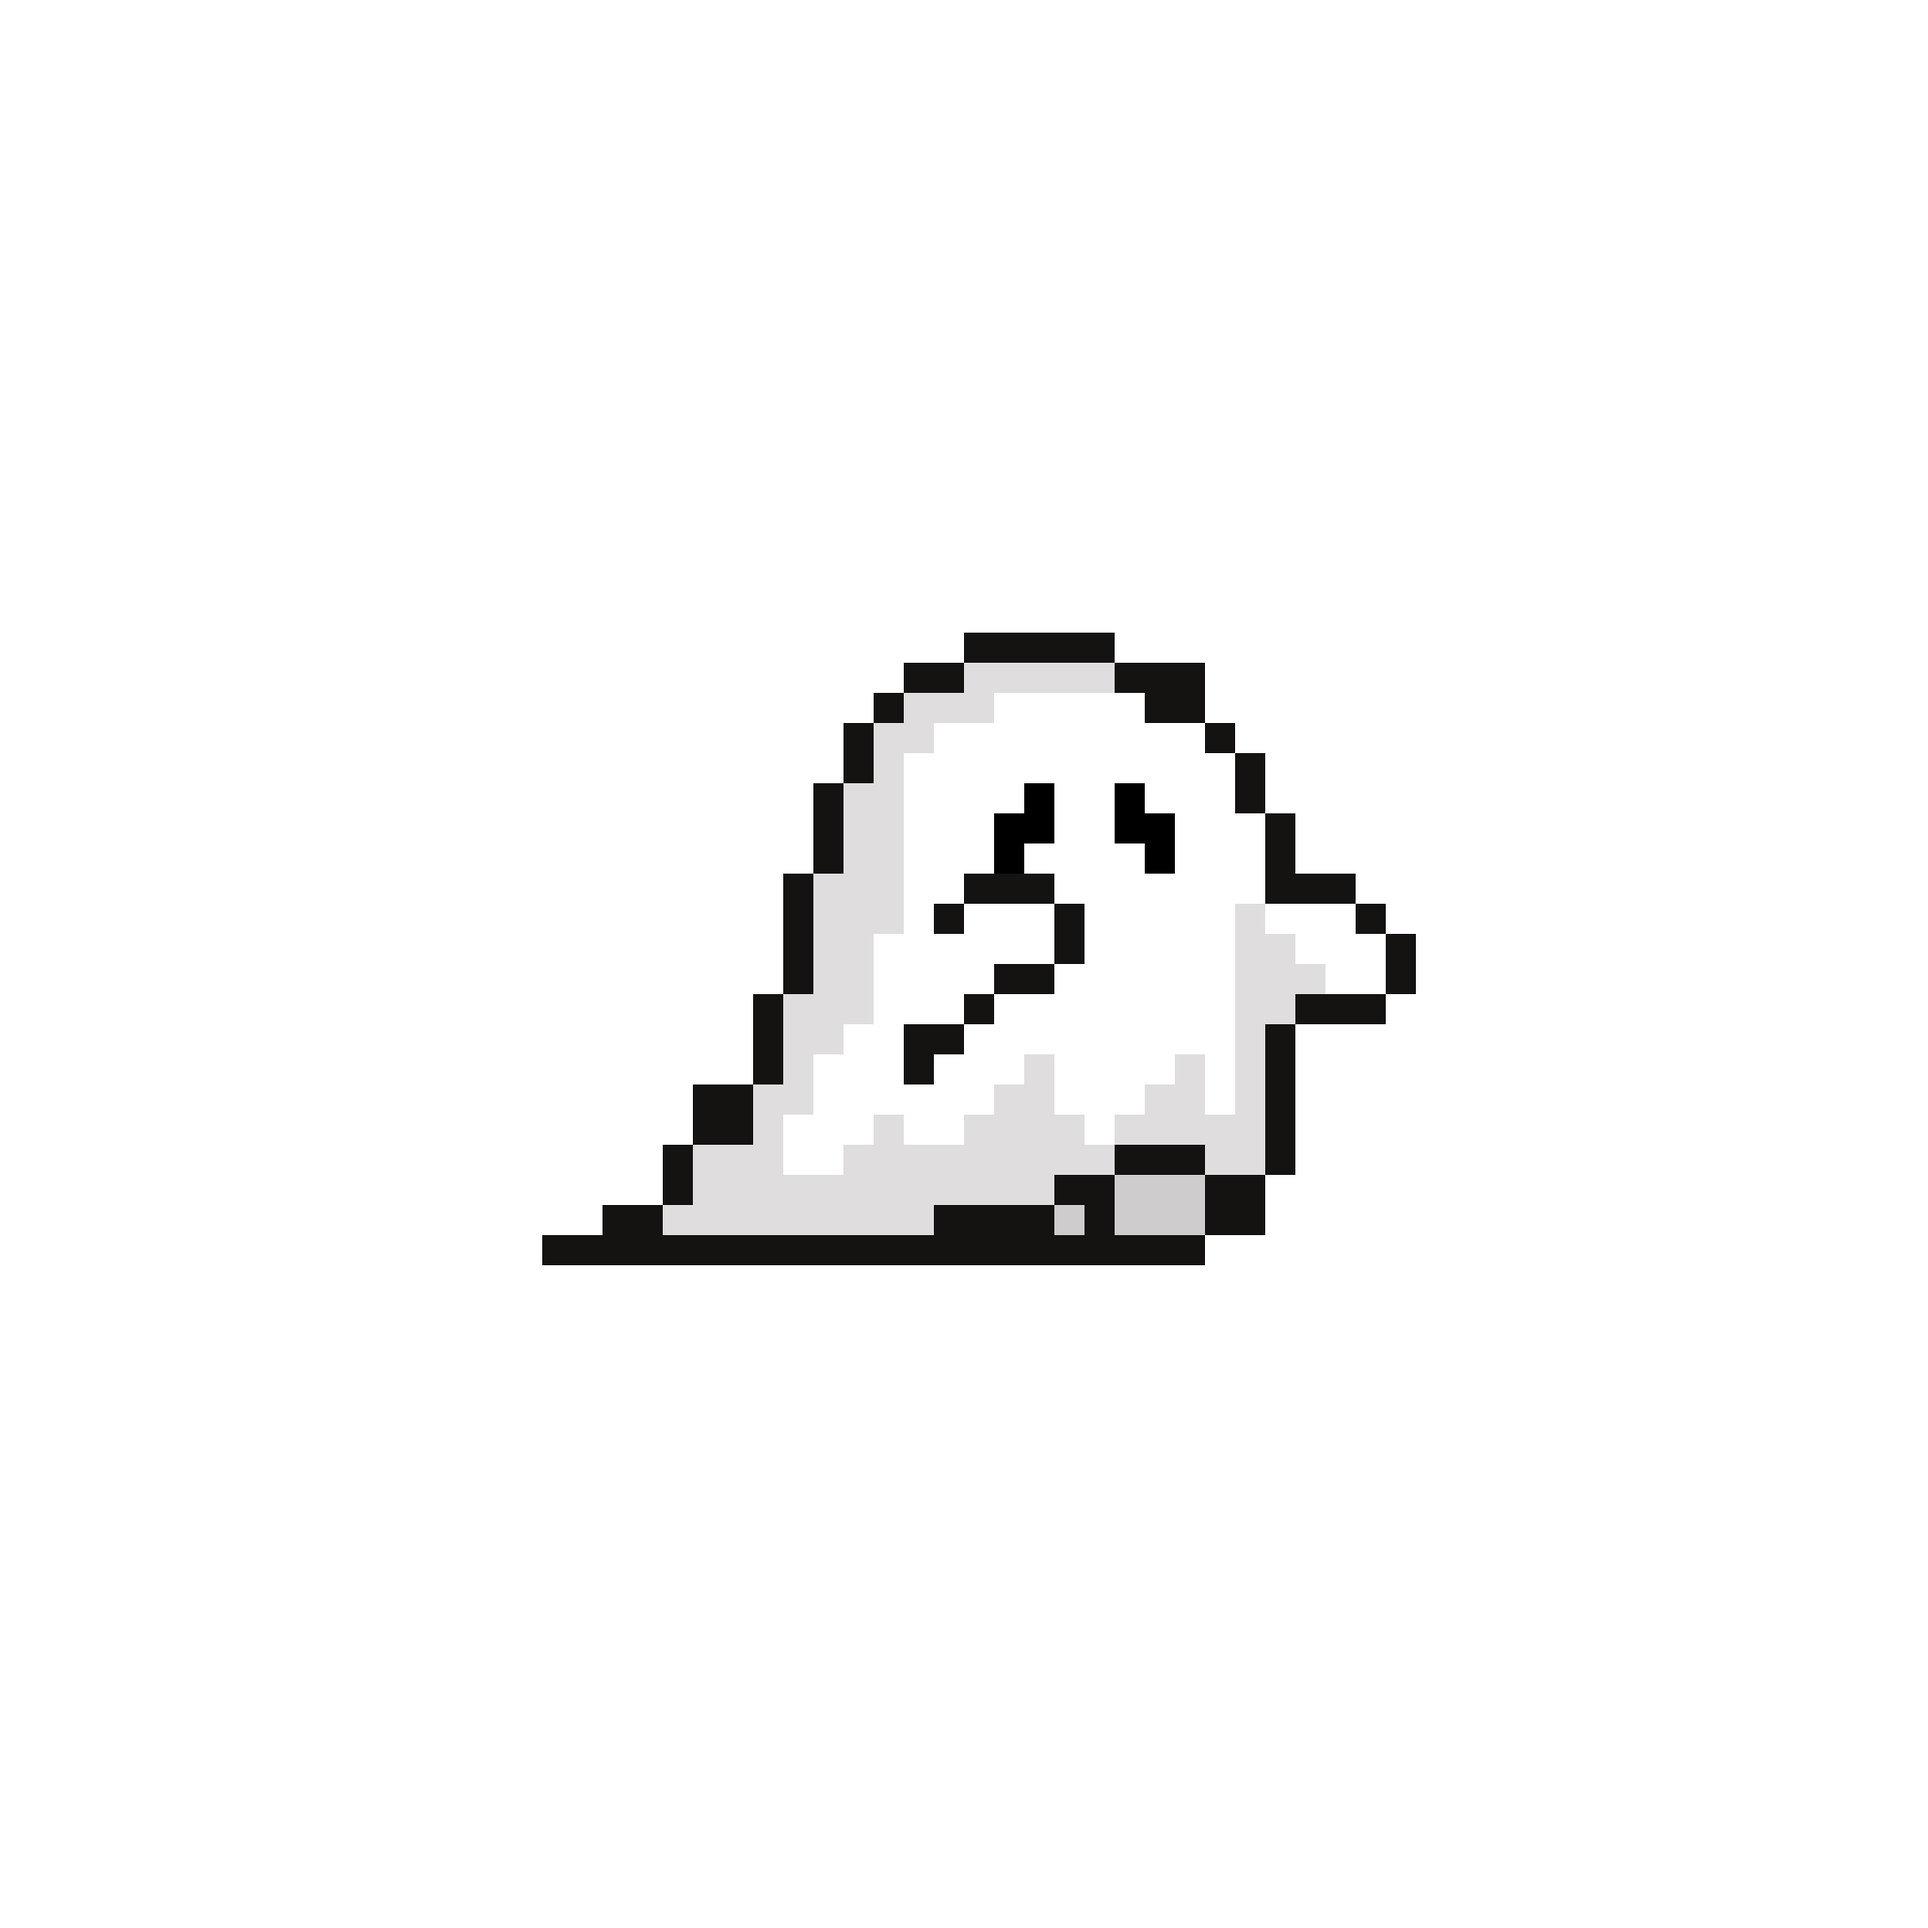
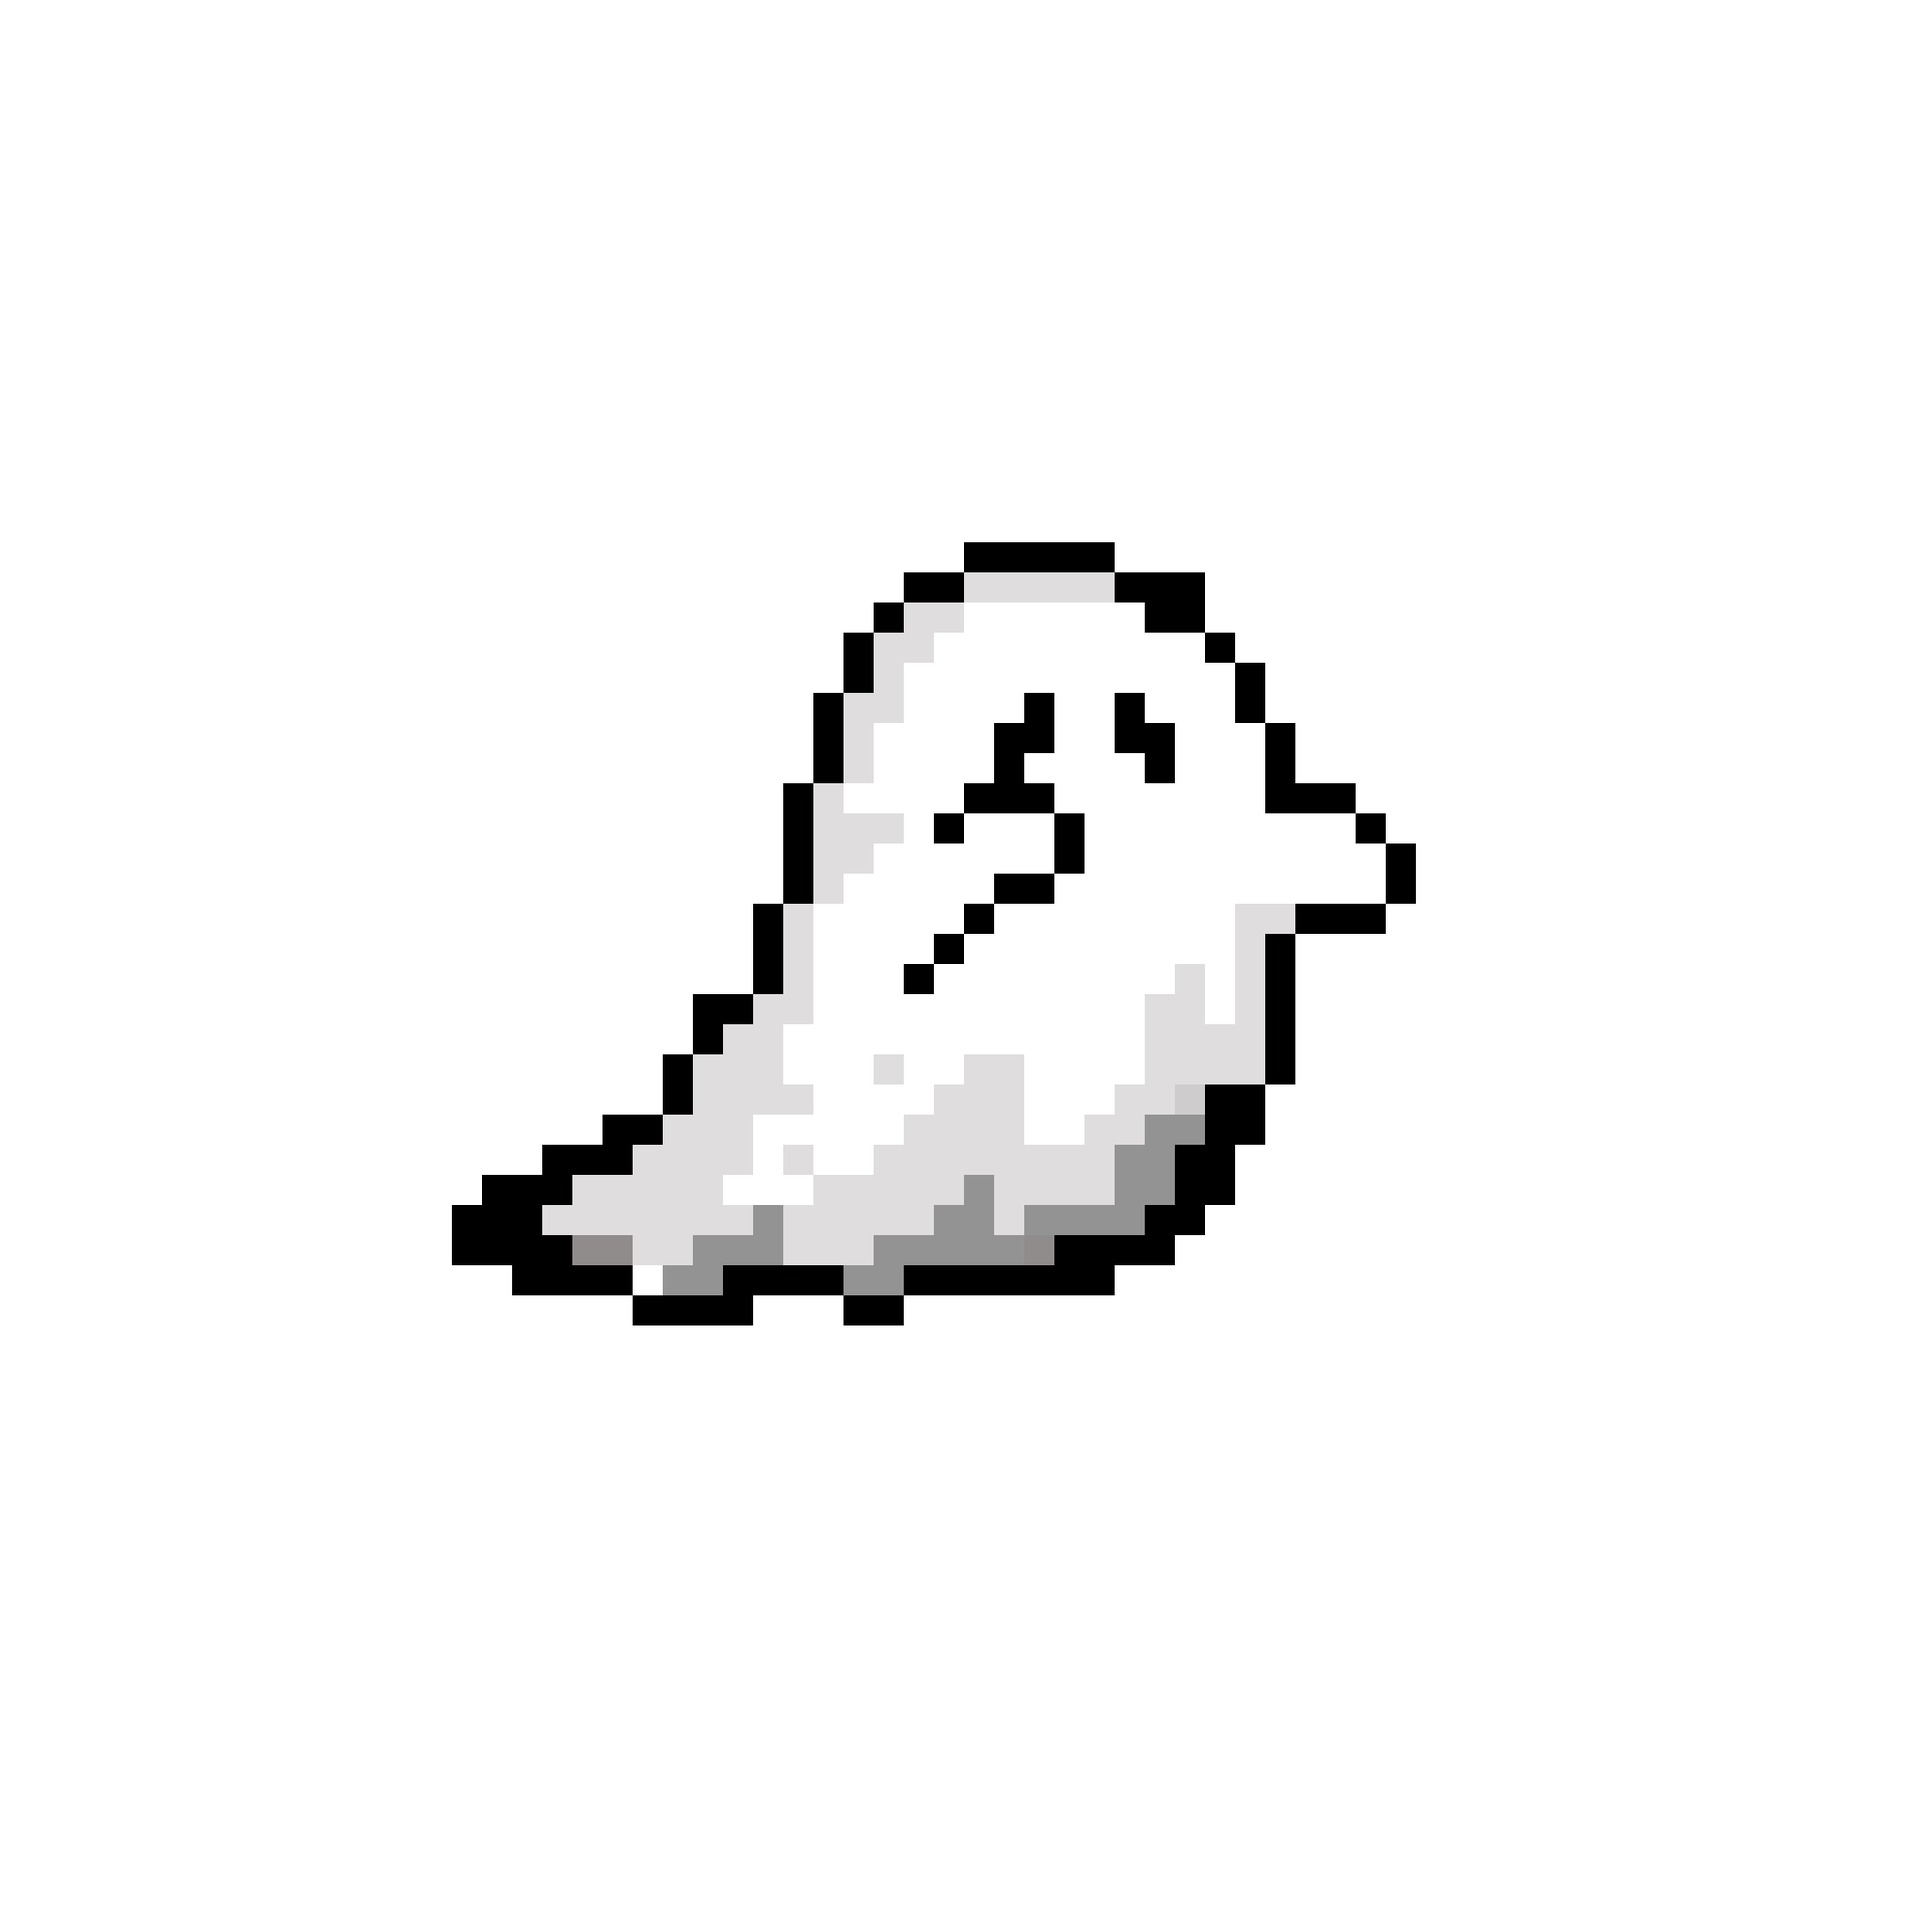
fixed the white space at the top and bottom

Changed region(s): [[0.2188, 0.2812, 0.75, 0.6875]]

diff --git a/src/clovers/Clovers.java b/src/clovers/Clovers.java
@@ -29,28 +29,48 @@ import javafx.stage.Stage;
  * @author DELL
  */
 public class Clovers extends Application {
-private double screenWidth = 1000; // Width of visible area
-    private double screenHeight = 600; // Height of visible area
+
+    private double screenWidth = 1000; // Width of visible area
+    private double screenHeight = 800; // Height of visible area
     private double bgWidth = 1746;     // Width of kitchen background
     private double bgHeight = 1166;    // Height of kitchen background
     private double ghostStep = 10;     // Step size for ghost movement
-    private double offsetY = 80;  
+//    private double offsetY = 80;
+
     @Override
     public void start(Stage primaryStage) {
         System.out.println("testing");
         // ImageView ghost = new ImageView(getClass().getResource("ghost.png").toExternalForm());
-        Image ghostOg = new Image("file:///C://Users//DELL//Desktop//SE220//Game//clovers//src//clovers//ghost.png/");
+        Image ghostOg = new Image("file:///C://Users//DELL//Desktop//SE220//Game//clovers//src//clovers//left1.png/");
+
         Image lifeImg = new Image("file:///C:/Users/DELL/Desktop/SE220/Game/clovers/src/clovers/lives.png");
         Image menuImg = new Image("file:///C:/Users/DELL/Desktop/SE220/Game/clovers/src/clovers/menu.png");
         Image timerImg = new Image("file:///C://Users//DELL//Desktop//SE220//Game//clovers//src//clovers//timer.png/");
-        ImageView menuView = new ImageView(menuImg);
+        //  ImageView ghost = new ImageView(new Image("file:///C://Users//DELL//Desktop//SE220//Game//clovers//src//clovers//ghost.png/"));
+        
+        Image ghostRight = new Image("file:///C://Users//DELL//Desktop//SE220//Game//clovers//src//clovers//right1.png/");
+        Image ghostUp = new Image("file:///C://Users//DELL//Desktop//SE220//Game//clovers//src//clovers//up1.png/");
+        Image ghostDown = new Image("file:///C://Users//DELL//Desktop//SE220//Game//clovers//src//clovers//down2.png/");
+        ImageView imageView = new ImageView(new Image("file:///C://Users//DELL//Desktop//SE220//Game//clovers//src//clovers//bg.png/"));
+
+//       Image bg = new Image(getClass().getResourceAsStream("bg.png"));
+//       ImageView imageView=new ImageView(bg);
+ImageView ghost = new ImageView(ghostOg);
+        ImageView menu = new ImageView(menuImg);
         ImageView life = new ImageView(lifeImg);
         ImageView life2 = new ImageView(lifeImg);
         ImageView life3 = new ImageView(lifeImg);
         ImageView timer = new ImageView(timerImg);
-        
-        Rectangle rectangle=new Rectangle(0,0,1746,80);
-        rectangle.setFill(Color.ANTIQUEWHITE);
+
+        imageView.setFitWidth(1746);
+        imageView.setFitHeight(1166);
+        imageView.setX(0);
+        imageView.setY(0);
+
+        ghost.setFitWidth(400);
+        ghost.setFitHeight(400);
+        ghost.setLayoutX(20);
+//        ghost.setY(offsetY + 150);
 
         life.setFitWidth(80);
         life.setFitHeight(80);
@@ -58,51 +78,32 @@ private double screenWidth = 1000; // Width of visible area
         life2.setFitHeight(80);
         life3.setFitWidth(80);
         life3.setFitHeight(80);
-        
-        timer.setFitWidth(120);
-        timer.setFitHeight(80);
-        menuView.setFitWidth(70);
-        menuView.setFitHeight(70);
+
+        timer.setFitWidth(180);
+        timer.setFitHeight(70);
+        menu.setFitWidth(70);
+        menu.setFitHeight(70);
 
         life.setX(100);
         life2.setX(200);
         life3.setX(300);
-      
-        menuView.setY(10);
-        timer.setX(600);
 
-        Pane topBar = new Pane(rectangle,menuView, life, life2, life3,timer);
+        menu.setY(10);
+        timer.setX(570);
+        timer.setY(0);
 
-        //  ImageView ghost = new ImageView(new Image("file:///C://Users//DELL//Desktop//SE220//Game//clovers//src//clovers//ghost.png/"));
-        ImageView ghost = new ImageView(ghostOg);
-        Image ghostRight = new Image("file:///C://Users//DELL//Desktop//SE220//Game//clovers//src//clovers//right.png/");
-        Image ghostUp = new Image("file:///C://Users//DELL//Desktop//SE220//Game//clovers//src//clovers//up.png/");
-        ghost.setFitWidth(400);
-        ghost.setFitHeight(400);
-        ghost.setLayoutX(20);
-        ghost.setY(offsetY + 150);
-        
-
-//        GridPane lives=new GridPane();
-//        lives.addRow(0, lifeview,lifeview,lifeview);
-        //""
-        ImageView imageView = new ImageView(new Image("file:///C://Users//DELL//Desktop//SE220//Game//clovers//src//clovers//bg.png/"));
-        
-//       Image bg = new Image(getClass().getResourceAsStream("bg.png"));
-//       ImageView imageView=new ImageView(bg);
-
-        imageView.setStyle("-fx-property:streached");
-        imageView.setFitWidth(1746 );
-       imageView.setFitHeight(1166 );
-        imageView.setX(0);
-        imageView.setY(0);
-
+        Rectangle rectangle = new Rectangle(0, 0, 1500, 800);
+        Pane topBar = new Pane(menu, life, life2, life3, timer);
         Pane pane = new Pane();
+        pane.getChildren().addAll(imageView, ghost, topBar);
+        StackPane stack = new StackPane();
 
-           pane.getChildren().addAll(imageView, ghost,topBar);
-      //  pane.getChildren().addAll(imageView, ghost);
+        stack.getChildren().addAll(pane, topBar);
+        stack.setClip(rectangle);
+        stack.setLayoutX(0);
 
-        Scene scene = new Scene(pane, 1746, 1166);
+        //  pane.getChildren().addAll(imageView, ghost);
+        Scene scene = new Scene(stack, 1746, 1166);
 
         ghost.setOnKeyPressed(e -> {
             if (e.getCode() == KeyCode.ENTER) {
@@ -113,7 +114,7 @@ private double screenWidth = 1000; // Width of visible area
         scene.setOnKeyPressed(e -> {
             switch (e.getCode()) {
                 case DOWN:
-//                    ghost.setImage(ghostOg);
+                    ghost.setImage(ghostDown);
                     ghost.setY(ghost.getY() + 10);
                     break;
                 case UP:
@@ -132,27 +133,28 @@ private double screenWidth = 1000; // Width of visible area
                     break;
 
             }
-             scrollBackground(imageView, ghost);
-             
+            scrollBackground(imageView, ghost);
+
         });
-        
+
 //        if(ghost.getX()==260){
 //            imageView.setY(400);
 //        }
-
-        ghost.setOnMousePressed(e->{
+        ghost.setOnMousePressed(e -> {
             System.out.println(ghost.getY());
         });
         primaryStage.setTitle("curses and clovers");
         primaryStage.setScene(scene);
         primaryStage.show();
-          ghost.requestFocus();
+        ghost.requestFocus();
     }
-private void scrollBackground(ImageView background, ImageView ghost) {
+
+    private void scrollBackground(ImageView background, ImageView ghost) {
         double ghostX = ghost.getX();
         double ghostY = ghost.getY();
 
-          if (ghostX > screenWidth * 0.7 && background.getX() > screenWidth - bgWidth) {
+        // Check if the ghost is near the right edge
+        if (ghostX > screenWidth * 0.7 && background.getX() > screenWidth - bgWidth) {
             background.setX(background.getX() - ghostStep);
             ghost.setX(ghostX - ghostStep); // Move ghost with background
         }
@@ -161,22 +163,22 @@ private void scrollBackground(ImageView background, ImageView ghost) {
             background.setX(background.getX() + ghostStep);
             ghost.setX(ghostX + ghostStep);
         }
-        // Check if the ghost is near the bottom edge (adjusted for offsetY)
-        if (ghostY > (screenHeight - offsetY) * 0.7 + offsetY && background.getY() > screenHeight - bgHeight) {
+        // Check if the ghost is near the bottom edge
+        if (ghostY > screenHeight * 0.3 && background.getY() > screenHeight - bgHeight) {
             background.setY(background.getY() - ghostStep);
-            ghost.setY(ghostY - ghostStep); // Keep ghost fully visible when moving down
+            ghost.setY(ghostY - ghostStep);
         }
-
-        // Top edge (adjusted for offsetY)
-        if (ghostY < (screenHeight - offsetY) * 0.3 + offsetY && background.getY() < offsetY) {
+        // Check if the ghost is near the top edge
+        if (ghostY < screenHeight * 0.3 && background.getY() < 0) {
             background.setY(background.getY() + ghostStep);
-            ghost.setY(ghostY + ghostStep); // Keep ghost fully visible when moving up
+            ghost.setY(ghostY + ghostStep);
         }
-
-        // Optional: Prevent the background from moving too far beyond its boundaries (use conditions to set max/min values for Y)
-        background.setY(Math.max(Math.min(background.getY(), offsetY), screenHeight - bgHeight));
-   
+        
+        if(ghostX==1746){
+           background.setX(1746);
+        }
     }
+
     /**
      * @param args the command line arguments
      */
